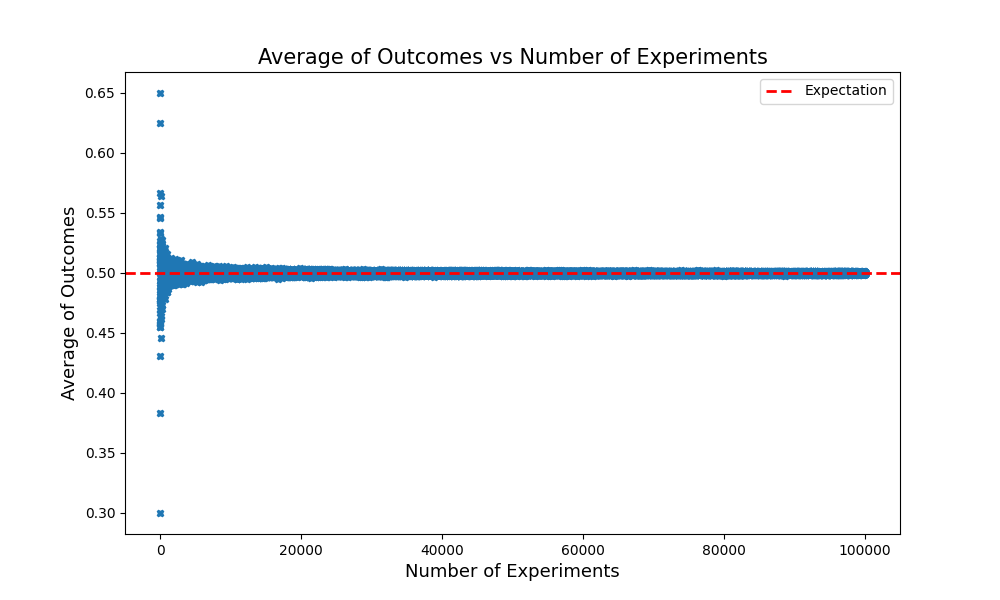
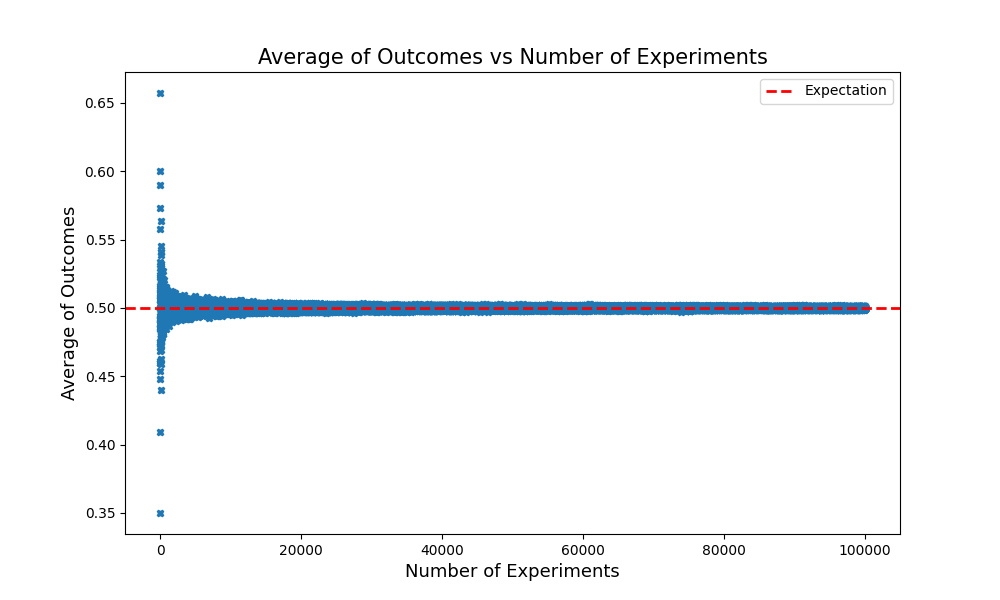
updating changes in lln.py

diff --git a/law_of_large_numbers/lln.py b/law_of_large_numbers/lln.py
@@ -1,61 +1,40 @@
-# Import the required libraries: numpy for numerical computations 
-# and matplotlib for basic plotting
 import numpy as np
 import matplotlib.pyplot as plt
 
-def LLN(interactions = 1000):
+def LLN(interactions = 1000, fair=True):
     """
     Demonstrates the Law of Large Numbers by simulating coin tosses.
 
     Args:
     interactions (int): Number of games or iterations to simulate.
+    fair (bool): Indicate whether the coin is fair or not.
     """
 
-    # Setting up the random seed for reproducibility
     np.random.seed(42)
-    
-    # Number of trials per game
     n_trials = 10
     
-    # The expected value for a fair coin toss is 0.5
-    expected_value = 0.5
+    if fair:
+        p = [0.5, 0.5]
+        expected_value = 0.5
+    else:
+        p = [0.3, 0.7]
+        expected_value = 0.7
 
-    # List to store the mean outcomes for each game
     mean_outcomes_all = []
 
-    # Simulate the games
     for n in range(1, interactions + 1):
-        # Simulate 'n_trials' coin tosses for each game, 
-        # where 0 represents "tails" and 1 represents "heads"
         print(n)
-        trials = np.random.randint(2, size=(n_trials, n))
-        
-        # Calculate the mean outcome for each game
+        trials = np.random.choice([0, 1], size=(n_trials, n), p=p)
         mean_outcomes = trials.mean(axis=1).mean()
-        
-        # Store the mean outcomes
         mean_outcomes_all.append(mean_outcomes)
 
-    # Create a figure for the plot
     plt.figure(figsize=(10, 6))
-
-    # Plot the mean outcomes for each game
     plt.plot(list(range(1, interactions + 1)), mean_outcomes_all, 'X', markersize=5)
-
-    # Set the labels for the x and y axes and the plot title
     plt.xlabel('Number of Experiments', fontsize=13)
     plt.ylabel('Average of Outcomes', fontsize=13)
     plt.title('Average of Outcomes vs Number of Experiments', fontsize=15)
-
-    # Plot the expected value line
     plt.axhline(expected_value, color='red', linestyle='dashed', linewidth=2, label='Expectation')
-
-    # Add a legend
     plt.legend()
-
-    # Save the plot as 'distribution_graph' in the current directory
     plt.savefig('distribution_graph')
 
-# Use of the function:
-# Simulate 100000 games, calculate the average outcome for each game, and plot these averages versus the number of games
-LLN(interactions = 100000)
+LLN(interactions = 100000, fair=True)

diff --git a/bayes_theorem/bayes.py b/bayes_theorem/bayes.py
@@ -1,15 +1,27 @@
 def bayes_theorem(P_A, P_B, P_B_given_A):
-    # Aplicação do Teorema de Bayes
+    """
+    Function to calculate and return the posterior probability of event A given event B, 
+    using Bayes' theorem.
+
+    Parameters:
+    P_A (float): Prior probability of event A
+    P_B (float): Probability of event B
+    P_B_given_A (float): Probability of event B given event A
+
+    Returns:
+    float: Posterior probability of event A given event B
+    """
+    # Application of Bayes' theorem
     P_A_given_B = (P_B_given_A * P_A) / P_B
     
     return P_A_given_B
 
-# Probabilidades
-P_D = 1/1000   # Probabilidade da doença (A)
-P_TP = (0.99 * P_D) + (0.02 * (1-P_D)) # Probabilidade de teste positivo (B)
-P_TP_given_D = 0.99 # Probabilidade de teste positivo se a pessoa tem a doença (B|A)
+# Probabilities
+P_D = 1/1000   # Probability of having the disease (event A)
+P_TP = (0.99 * P_D) + (0.02 * (1-P_D)) # Probability of getting a positive test result (event B)
+P_TP_given_D = 0.99 # Probability of getting a positive test result if the person has the disease (B given A)
 
-# Calculando a probabilidade de ter a doença dado um teste positivo (A|B)
+# Calculating the probability of having the disease given a positive test result (A given B)
 P_D_given_TP = bayes_theorem(P_D, P_TP, P_TP_given_D)
 
-print(f"A probabilidade de ter a doença dado um teste positivo é {P_D_given_TP*100:.2f}%")
+print(f"The probability of having the disease given a positive test result is {P_D_given_TP*100:.2f}%")
